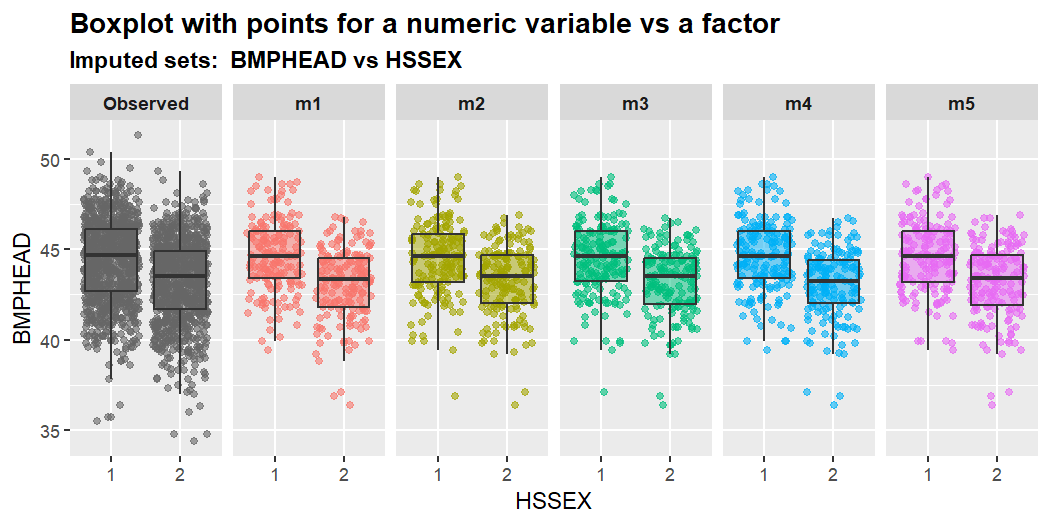
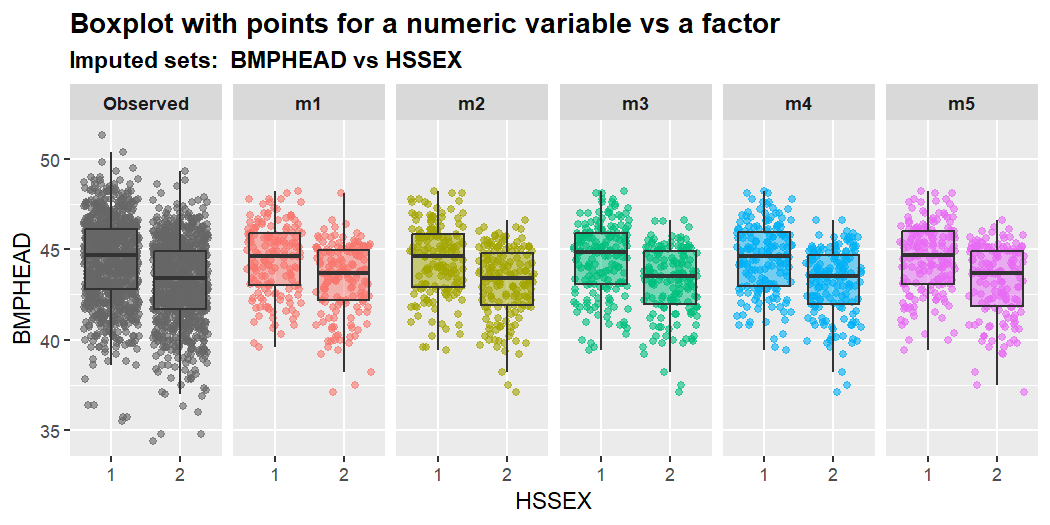
1.4.2

diff --git a/README.md b/README.md
@@ -36,10 +36,13 @@ XGBoost](https://www.tandfonline.com/doi/full/10.1080/10618600.2023.2252501).
 
 ## New updates
 
-**Expected Release Date: Nov 2023**
+**New Release: Nov 2023**
 
-- Coming soon! New version of the `mixgb()` function will greatly reduce
-  imputation time for large datasets.
+- New version of the `mixgb()` function has been optimized to greatly
+  reduce imputation time for large datasets.
+
+- **mixgb**(\>=1.4.2) is compatible with both XGBoost(\>=2.0.0) and
+  XGBoost(CRAN version).
 
 **Oct 2023**
 
@@ -285,9 +288,9 @@ params <- list(max_depth = 3, subsample = 0.7, nthread = 2)
 cv.results <- mixgb_cv(data = nhanes3_newborn, nrounds = 100,
     xgb.params = params, verbose = FALSE)
 cv.results$response
-#> [1] "BMPTR1"
+#> [1] "HFF1"
 cv.results$best.nrounds
-#> [1] 11
+#> [1] 9
 ```
 
 By default, `mixgb_cv()` will randomly choose an incomplete variable as
@@ -304,7 +307,7 @@ cv.results <- mixgb_cv(data = nhanes3_newborn, nfold = 10, nrounds = 100,
         "BMPTR1", "BMPTR2", "BMPWT"), xgb.params = params, verbose = FALSE)
 
 cv.results$best.nrounds
-#> [1] 14
+#> [1] 13
 ```
 
 Let us just try setting `nrounds = cv.results$best.nrounds` in `mixgb()`
@@ -371,26 +374,26 @@ specified variable.
 show_var(imputation.list = imputed.data, var.name = "BMPHEAD",
     original.data = withNA.df)
 #>            m1       m2       m3       m4       m5
-#>   1: 44.55964 44.58959 44.15152 44.56411 44.46418
-#>   2: 44.36407 43.74577 43.64571 44.14404 44.13693
-#>   3: 43.40415 43.47594 42.91505 43.28848 43.28136
-#>   4: 42.95826 43.18346 42.72605 43.14680 43.04770
-#>   5: 45.09745 45.47606 45.19949 45.18177 44.89433
+#>   1: 44.48437 42.40263 44.81512 44.23953 43.26088
+#>   2: 42.27523 41.39620 42.05612 42.56915 42.26706
+#>   3: 43.38593 42.90775 43.08914 42.24798 43.07787
+#>   4: 44.14684 43.17070 43.51343 43.59421 43.96187
+#>   5: 41.42059 40.60042 40.84894 41.08277 41.09366
 #>  ---                                             
-#> 120: 45.64759 45.64001 45.26391 45.41525 45.55229
-#> 121: 43.32446 43.72506 43.58517 42.73930 43.50102
-#> 122: 40.95664 41.39137 41.42779 41.40689 41.29398
-#> 123: 41.56052 40.35720 41.86611 41.06014 40.78917
-#> 124: 46.61265 46.47099 46.05222 46.48701 46.70708
+#> 120: 45.84540 45.73336 45.61261 45.63473 45.36967
+#> 121: 44.82779 45.72536 45.70374 44.93923 44.94569
+#> 122: 41.58113 41.92926 41.42997 41.95879 42.23804
+#> 123: 43.82690 44.91631 43.63697 43.93151 44.76704
+#> 124: 45.74449 43.57767 45.24529 43.95994 44.38604
 show_var(imputation.list = imputed.data, var.name = "HFF1", original.data = withNA.df)
 #>    m1 m2 m3 m4 m5
 #> 1:  2  2  2  2  2
-#> 2:  1  1  1  2  1
-#> 3:  2  2  2  2  2
-#> 4:  2  2  2  2  2
-#> 5:  2  2  2  2  2
-#> 6:  2  2  2  2  2
-#> 7:  2  1  2  2  2
+#> 2:  2  2  2  2  2
+#> 3:  2  1  2  2  2
+#> 4:  2  2  2  1  2
+#> 5:  1  1  1  2  1
+#> 6:  1  1  2  1  2
+#> 7:  2  2  1  2  2
 ```
 
 The `mixgb` package provides the following visual diagnostics functions:
